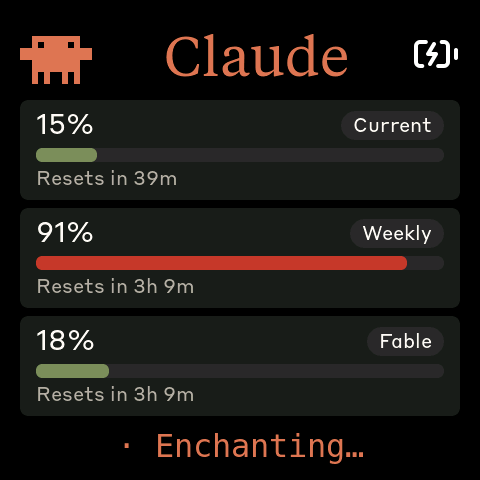
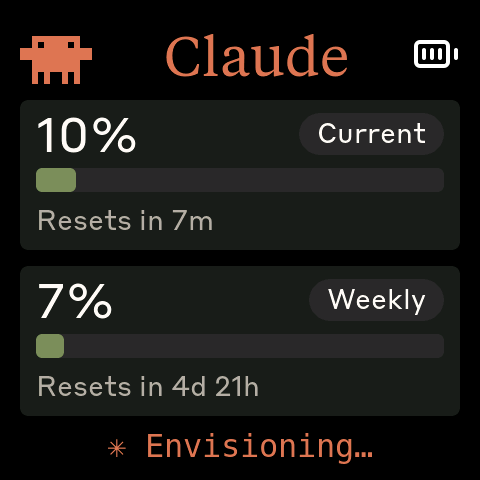
docs: refresh the README hardware shots and changelog for H10

diff --git a/README.md b/README.md
@@ -7,7 +7,7 @@
 ![Built with PlatformIO](https://img.shields.io/badge/built%20with-PlatformIO-orange)
 
 <p align="center">
-  <img src="docs/media/screens/hw-claude.png" width="360" alt="ToknMon showing Claude Code usage: Current, Weekly and Fable bars on the Waveshare 2.16 AMOLED">
+  <img src="docs/media/screens/hw-claude.png" width="360" alt="ToknMon showing Claude Code usage: Current and Weekly bars on the Waveshare 2.16 AMOLED">
 </p>
 
 **ToknMon** is a desk-side usage meter for AI coding assistants. A pocket-size
@@ -47,7 +47,7 @@ requests are welcome, support is best-effort.
 | | |
 | --- | --- |
 | <img src="docs/media/screens/claude-usage.png" width="240" alt="Claude usage view with Current and Weekly bars"> | **Four providers, one carousel.** Claude Code (5-hour session and weekly bars, plus the model-scoped **Fable** weekly window on its own page of small Clawds when your plan has one), Codex CLI, Kimi Code and Grok Build CLI each get a slot. Tap or swipe to page; it stays on the provider you picked, even after a reboot. Paging skips slots without fresh data. |
-| <img src="docs/media/screens/hw-codex.png" width="240" alt="Codex dot grid at 91 percent on the real panel"> | **A screen per provider.** Codex shows a 10×10 dot grid filling to the weekly percentage (plus a compact 5h bar when the plan has one); Grok shows its weekly credit window on a silver dot grid; Kimi shows 5h and weekly bars in blue; Claude keeps its bars in clay. Palettes, bar tiers and status lines never bleed between providers. |
+| <img src="docs/media/screens/hw-grok.png" width="240" alt="Grok weekly dot grid at 5 percent with its corner icon on the real panel"> | **A screen per provider.** Codex shows a 10×10 dot grid filling to the weekly percentage (plus a compact 5h bar when the plan has one); Grok shows its weekly credit window on a silver dot grid; Kimi shows 5h and weekly bars in blue; Claude keeps its bars in clay. Palettes, bar tiers and status lines never bleed between providers. |
 | <img src="docs/media/screens/mascot-codex.png" width="240" alt="Mascot mode pinned to Codex"> | **Mascots and mascot mode.** Clawd for Claude (Anthropic's official set), original three-dots, crescent-moon and Grokbot-style ball characters for Codex, Kimi and Grok, each with idle, acts, a mountain-bike ride and two full-screen scenes. Long-press the meter to watch a provider's set full-size. |
 | <img src="docs/media/screens/parade.png" width="240" alt="Idle parade with the Codex mascot on stage"> | **The parade.** The device rotates every live provider's full-size mascot every 20 s, until you swipe back. It never starts on its own (serial `parade on`). |
 | <img src="docs/media/screens/scene-kimi-night.png" width="240" alt="Kimi night scene"> | **Draw your own.** Animations are plain text grids compiled by a small Node tool. The Codex and Kimi scenes were authored by an AI agent from a two-sentence brief. |

diff --git a/CHANGELOG.md b/CHANGELOG.md
@@ -36,12 +36,20 @@ H0–H10); the entries below summarize them.
   with more detail, shading and a blink (`<provider>.icon`); the full-screen
   animations and scenes are unchanged.
 
+- `tools/test/shell/test_sim_sticky_view.sh` runs the simulator headless and
+  checks that the usage view stays where the user left it (also in CI).
+
 ### Changed
 
 - The meter no longer rotates between providers every 8 s (H10): it stays
   on the provider you picked, even when its data goes stale, and the pick
-  survives a reboot. Serial `slot` accepts `0-4` (4 = Fable) and the
-  simulator takes `SIM_SLOT=0-4`.
+  survives a reboot. A tap or swipe still pages away from a stale pick as
+  long as another view is live. Serial `slot` accepts `0-4` (4 = Fable), the
+  serial log prints `UI: picked view N` / `UI: restored picked view N` /
+  `UI: showing view N`, and the simulator takes `SIM_SLOT=0-4`.
+
+- README hero and provider shots are fresh hardware captures of the H10
+  screens (Claude with two bars, Grok with its corner icon).
 
 - The parade no longer starts after 5 minutes without input: the meter stays
   on screen until you touch it, and the animations only play on a tap, swipe

diff --git a/docs/media/README.md b/docs/media/README.md
@@ -40,8 +40,8 @@ are not regenerated by the script: re-capture them with
 | `scene-kimi-night.png` | Full-screen scene `kimi.scene.night` (5th entry of the Kimi set) | sim, t = 30.7 s |
 | `scene-grok-stars.png` | Full-screen scene `grok.scene.stars` (4th entry of the Grok set): the ball floating among stars beside a ringed planet | sim, t = 27 s |
 | `parade.png` | Parade (serial `parade on` / `SIM_PARADE`) after its first 20 s rotation: Codex on stage playing `codex.dots` | sim, `SIM_PARADE=1`, t = 31 s |
-| `hw-claude.png` | Claude usage view on the real panel (three bars, USB power glyph) | hardware, H5 |
-| `hw-codex.png` | Codex dot grid at 91 % on the real panel | hardware, H5 |
+| `hw-claude.png` | Claude usage view on the real panel (Current + Weekly bars, USB power glyph) | hardware, H10 |
+| `hw-grok.png` | Grok weekly dot grid at 5 % with the H10 corner icon on the real panel | hardware, H10 |
 | `hw-kimi-night.png` | `kimi.scene.night` on the real panel | hardware, H7 |
 
 Not captured: the Bluetooth/pairing screen. This fork's UI has only the
